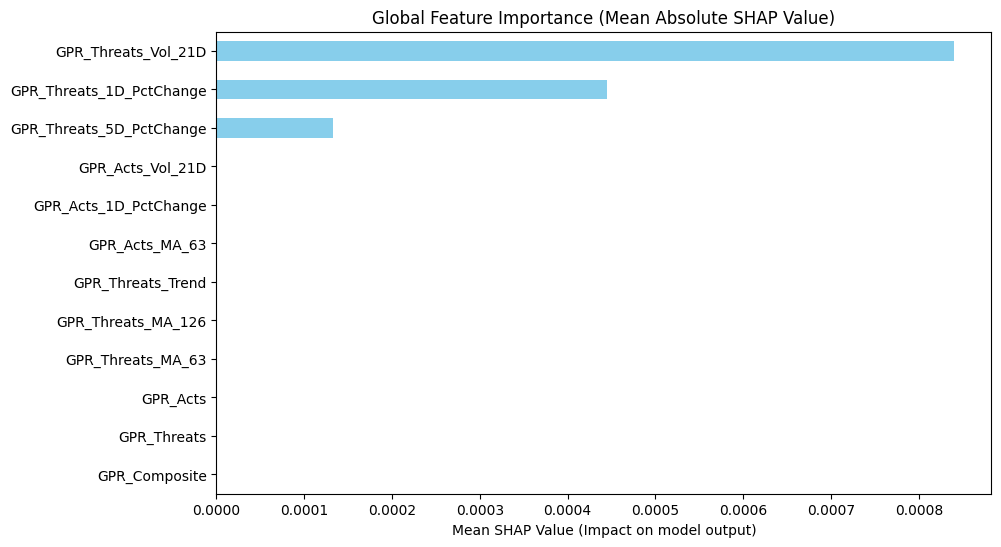
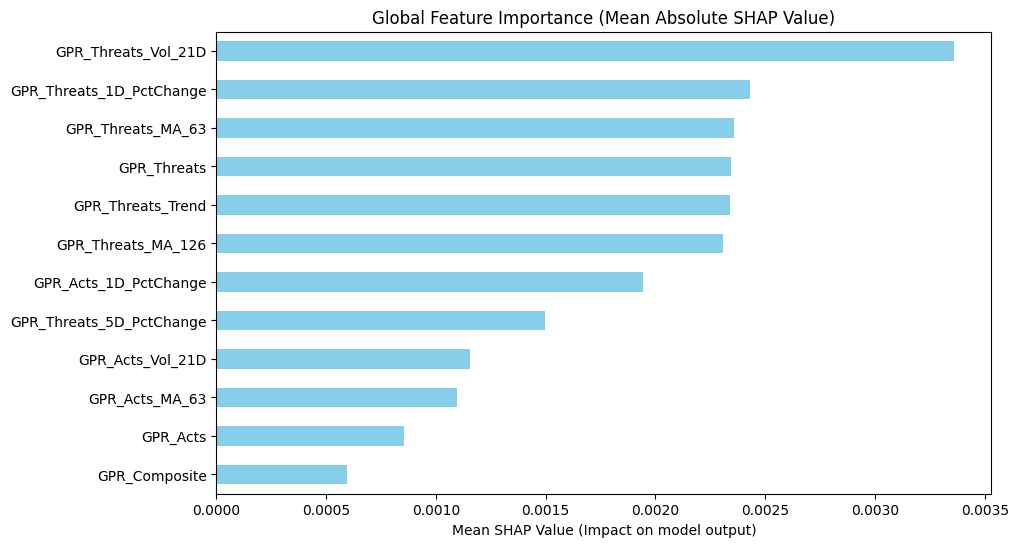
Changed SHAP method from kernel explainer to gradient explainer

diff --git a/run_event_backtest.py b/run_event_backtest.py
@@ -194,39 +194,51 @@ try:
     # --- 12-FEATURE LIST ---
     N_FEATURES = len(config.GPR_FEATURES)
     
-    # 1. Reshape our 3D data to 2D for SHAP
-    X_test_2d = X_test_seq.reshape(X_test_seq.shape[0], LOOKBACK_DAYS * N_FEATURES)
-
-    # --- THIS IS THE FIX ---
-    print("Cleaning data for SHAP (replacing inf/nan with 0)...")
-    X_test_2d = np.nan_to_num(X_test_2d, copy=False, nan=0.0, posinf=0.0, neginf=0.0)
+    # 1. Clean data for SHAP (replacing inf/nan with 0)
+    # GradientExplainer works directly with 3D tensors.
+    print("Cleaning data for SHAP...")
+    X_test_seq = np.nan_to_num(X_test_seq, copy=False, nan=0.0, posinf=0.0, neginf=0.0)
     print("Data cleaned.")
-    # --- END FIX ---
-
-    # 2. Summarize the 2D data.
-    # Use 100 samples for a stable result
-    background_data_2d = shap.kmeans(X_test_2d[np.random.choice(X_test_2d.shape[0], 20, replace=False)], 20)
     
-    # 3. Create the prediction function
-    def model_predict_proba(data_2d):
-        data_3d = data_2d.reshape(-1, LOOKBACK_DAYS, N_FEATURES)
-        return model.predict(data_3d, verbose=0)
-        
-    # 4. Create the explainer
-    explainer = shap.KernelExplainer(model_predict_proba, background_data_2d)
+    # 2. Select Background Data for GradientExplainer
+    # We use random samples from the test set as the background distribution.
+    background_indices = np.random.choice(X_test_seq.shape[0], 100, replace=False)
+    background_data_3d = X_test_seq[background_indices]
     
-    # 5. Explain a 2D sample (Use 100 samples for a stable result)
-    samples_to_explain_2d = X_test_2d[np.random.choice(X_test_2d.shape[0], 20, replace=False)]
+    # 3. Create the GradientExplainer
+    # This uses the model's gradients to calculate importance, which is much faster than KernelExplainer.
+    explainer = shap.GradientExplainer(model, background_data_3d)
     
-    shap_values_2d = explainer.shap_values(samples_to_explain_2d, nsamples="auto") 
+    # 4. Select samples to explain (Use 200 for high accuracy)
+    explain_indices = np.random.choice(X_test_seq.shape[0], 200, replace=False)
+    samples_to_explain_3d = X_test_seq[explain_indices]
     
-    # 6. Reshape the SHAP values back to 3D for analysis
-    shap_values_3d = shap_values_2d[0].reshape(-1, LOOKBACK_DAYS, N_FEATURES)
+    # 5. Compute SHAP values
+    print("Computing SHAP values with GradientExplainer...")
+    shap_values = explainer.shap_values(samples_to_explain_3d)
+    
+    # shap_values is a list (one array per model output). Our model has 1 output.
+    if isinstance(shap_values, list):
+        shap_values_3d = shap_values[0]
+    else:
+        shap_values_3d = shap_values
     
     # 7. Manually plot the global feature importance
-    axes_to_average = tuple(range(shap_values_3d.ndim - 1))
-    global_importance = np.mean(np.abs(shap_values_3d), axis=axes_to_average)
+    print(f"SHAP values shape: {shap_values_3d.shape}")
     
+    # Handle potential extra dimension (e.g., (Samples, Time, Features, 1))
+    if shap_values_3d.ndim == 4 and shap_values_3d.shape[-1] == 1:
+        shap_values_3d = np.squeeze(shap_values_3d, axis=-1)
+        print(f"Squeezed SHAP values shape: {shap_values_3d.shape}")
+
+    # We expect shape (Samples, Time, Features). We want to average over Samples (0) and Time (1).
+    if shap_values_3d.ndim == 3:
+        global_importance = np.mean(np.abs(shap_values_3d), axis=(0, 1))
+    else:
+        # Fallback: Average over all axes except the last one (Features)
+        axes_to_average = tuple(range(shap_values_3d.ndim - 1))
+        global_importance = np.mean(np.abs(shap_values_3d), axis=axes_to_average)
+
     print(f"Calculated global importance: {global_importance}")
     
     feature_importance_series = pd.Series(

diff --git a/train_market_svm.py b/train_market_svm.py
@@ -7,6 +7,8 @@ import joblib
 import os
 import random
 import tensorflow as tf
+import config
+import utils
 
 # --- SET RANDOM SEED FOR REPRODUCIBILITY ---
 SEED_VALUE = 42
@@ -18,54 +20,28 @@ tf.random.set_seed(SEED_VALUE)
 print("Starting Phase: Training Market Fragility SVM Model (The 'Fuel')...")
 
 # --- 1. SET PARAMETERS ---
-WARNING_WINDOW_DAYS = 10 
-# These are the features that will determine "market fragility"
-# We are adding credit-based indicators to make the model more robust.
-MARKET_FEATURES = [
-    'VIX_Close', 
-    'RSI_14',
-    'Rolling_1st_Percentile' # A measure of recent downside volatility
-]
+WARNING_WINDOW_DAYS = config.WARNING_WINDOW_DAYS
 TARGET_COLUMN = 'Crash_Event'
-
-# --- 2. Helper Function to create warning labels ---
-def create_warning_labels(y_true, window_size):
-    y_warning = np.zeros_like(y_true)
-    true_event_indices = np.where(y_true == 1)[0]
-    if not true_event_indices.any(): return y_warning
-    event_groups = []
-    current_event_start = true_event_indices[0]
-    for i in range(1, len(true_event_indices)):
-        if true_event_indices[i] > true_event_indices[i-1] + 1:
-            event_groups.append(current_event_start)
-            current_event_start = true_event_indices[i]
-    event_groups.append(current_event_start) 
-    for event_start_day in event_groups:
-        warning_start = max(0, event_start_day - window_size)
-        warning_end = event_start_day
-        y_warning[warning_start : warning_end] = 1
-    y_warning[y_true == 1] = 0 # Don't train on the crash day itself
-    return y_warning
 
 # --- 3. Load Datasets ---
 try:
-    train_df = pd.read_csv("data/train_final.csv", index_col='Date', parse_dates=True)
-    test_df = pd.read_csv("data/test_final.csv", index_col='Date', parse_dates=True)
+    train_df = pd.read_csv(config.DATA_TRAIN, index_col='Date', parse_dates=True)
+    test_df = pd.read_csv(config.DATA_TEST, index_col='Date', parse_dates=True)
 except FileNotFoundError:
     print("Error: Data files not found. Make sure 'data/train_final.csv' and 'data/test_final.csv' exist.")
     exit()
 print("Loaded train and test datasets.")
 
 # --- 4. Prepare Data for Modeling ---
-X_train = train_df[MARKET_FEATURES]
+X_train = train_df[config.MARKET_FEATURES]
 y_train_raw = train_df[TARGET_COLUMN]
-X_test = test_df[MARKET_FEATURES]
+X_test = test_df[config.MARKET_FEATURES]
 y_test_raw = test_df[TARGET_COLUMN]
 
 # --- 5. Create Warning-Based Target (Y) ---
 # We train the SVM to recognize the fragile period *before* a crash.
-y_train = create_warning_labels(y_train_raw.values, WARNING_WINDOW_DAYS)
-y_test = create_warning_labels(y_test_raw.values, WARNING_WINDOW_DAYS)
+y_train = utils.create_warning_labels(y_train_raw.values, WARNING_WINDOW_DAYS)
+y_test = utils.create_warning_labels(y_test_raw.values, WARNING_WINDOW_DAYS)
 print(f"Training on {np.sum(y_train)} total 'fragility' days.")
 
 # --- 6. Normalize Features ---
@@ -83,10 +59,10 @@ svm_fuel_model = SVC(kernel='rbf', probability=True, class_weight='balanced', ra
 svm_fuel_model.fit(X_train_scaled, y_train)
 
 # Save the model and the scaler
-joblib.dump(svm_fuel_model, "svm_fuel_model.pkl")
-joblib.dump(scaler, "market_features_scaler.pkl")
-print("Trained SVM 'Fuel' model saved as 'svm_fuel_model.pkl'")
-print("Market feature scaler saved as 'market_features_scaler.pkl'")
+joblib.dump(svm_fuel_model, config.MODEL_FUEL)
+joblib.dump(scaler, config.SCALER_MARKET)
+print(f"Trained SVM 'Fuel' model saved as '{config.MODEL_FUEL}'")
+print(f"Market feature scaler saved as '{config.SCALER_MARKET}'")
 
 # --- 8. Evaluate SVM ---
 print("\nEvaluating SVM 'Fuel' Model on Test Data...")

diff --git a/train_lstm_model.py b/train_lstm_model.py
@@ -44,12 +44,7 @@ except FileNotFoundError:
 print("Loaded train, validation, and test datasets.")
 
 # --- 3. Prepare Data for Modeling (GPR-ONLY FEATURE LIST) ---
-feature_columns = [
-    'GPR_Composite', 'GPR_Threats', 'GPR_Acts',
-    'GPR_Threats_MA_63', 'GPR_Threats_MA_126', 'GPR_Threats_Trend', 'GPR_Acts_MA_63',
-    'GPR_Threats_1D_PctChange', 'GPR_Acts_1D_PctChange', 'GPR_Threats_5D_PctChange',
-    'GPR_Threats_Vol_21D', 'GPR_Acts_Vol_21D'
-]
+feature_columns = config.GPR_FEATURES
 target_column = 'Crash_Event'
 # (Rest of data prep is identical)
 X_train = train_df[feature_columns]
